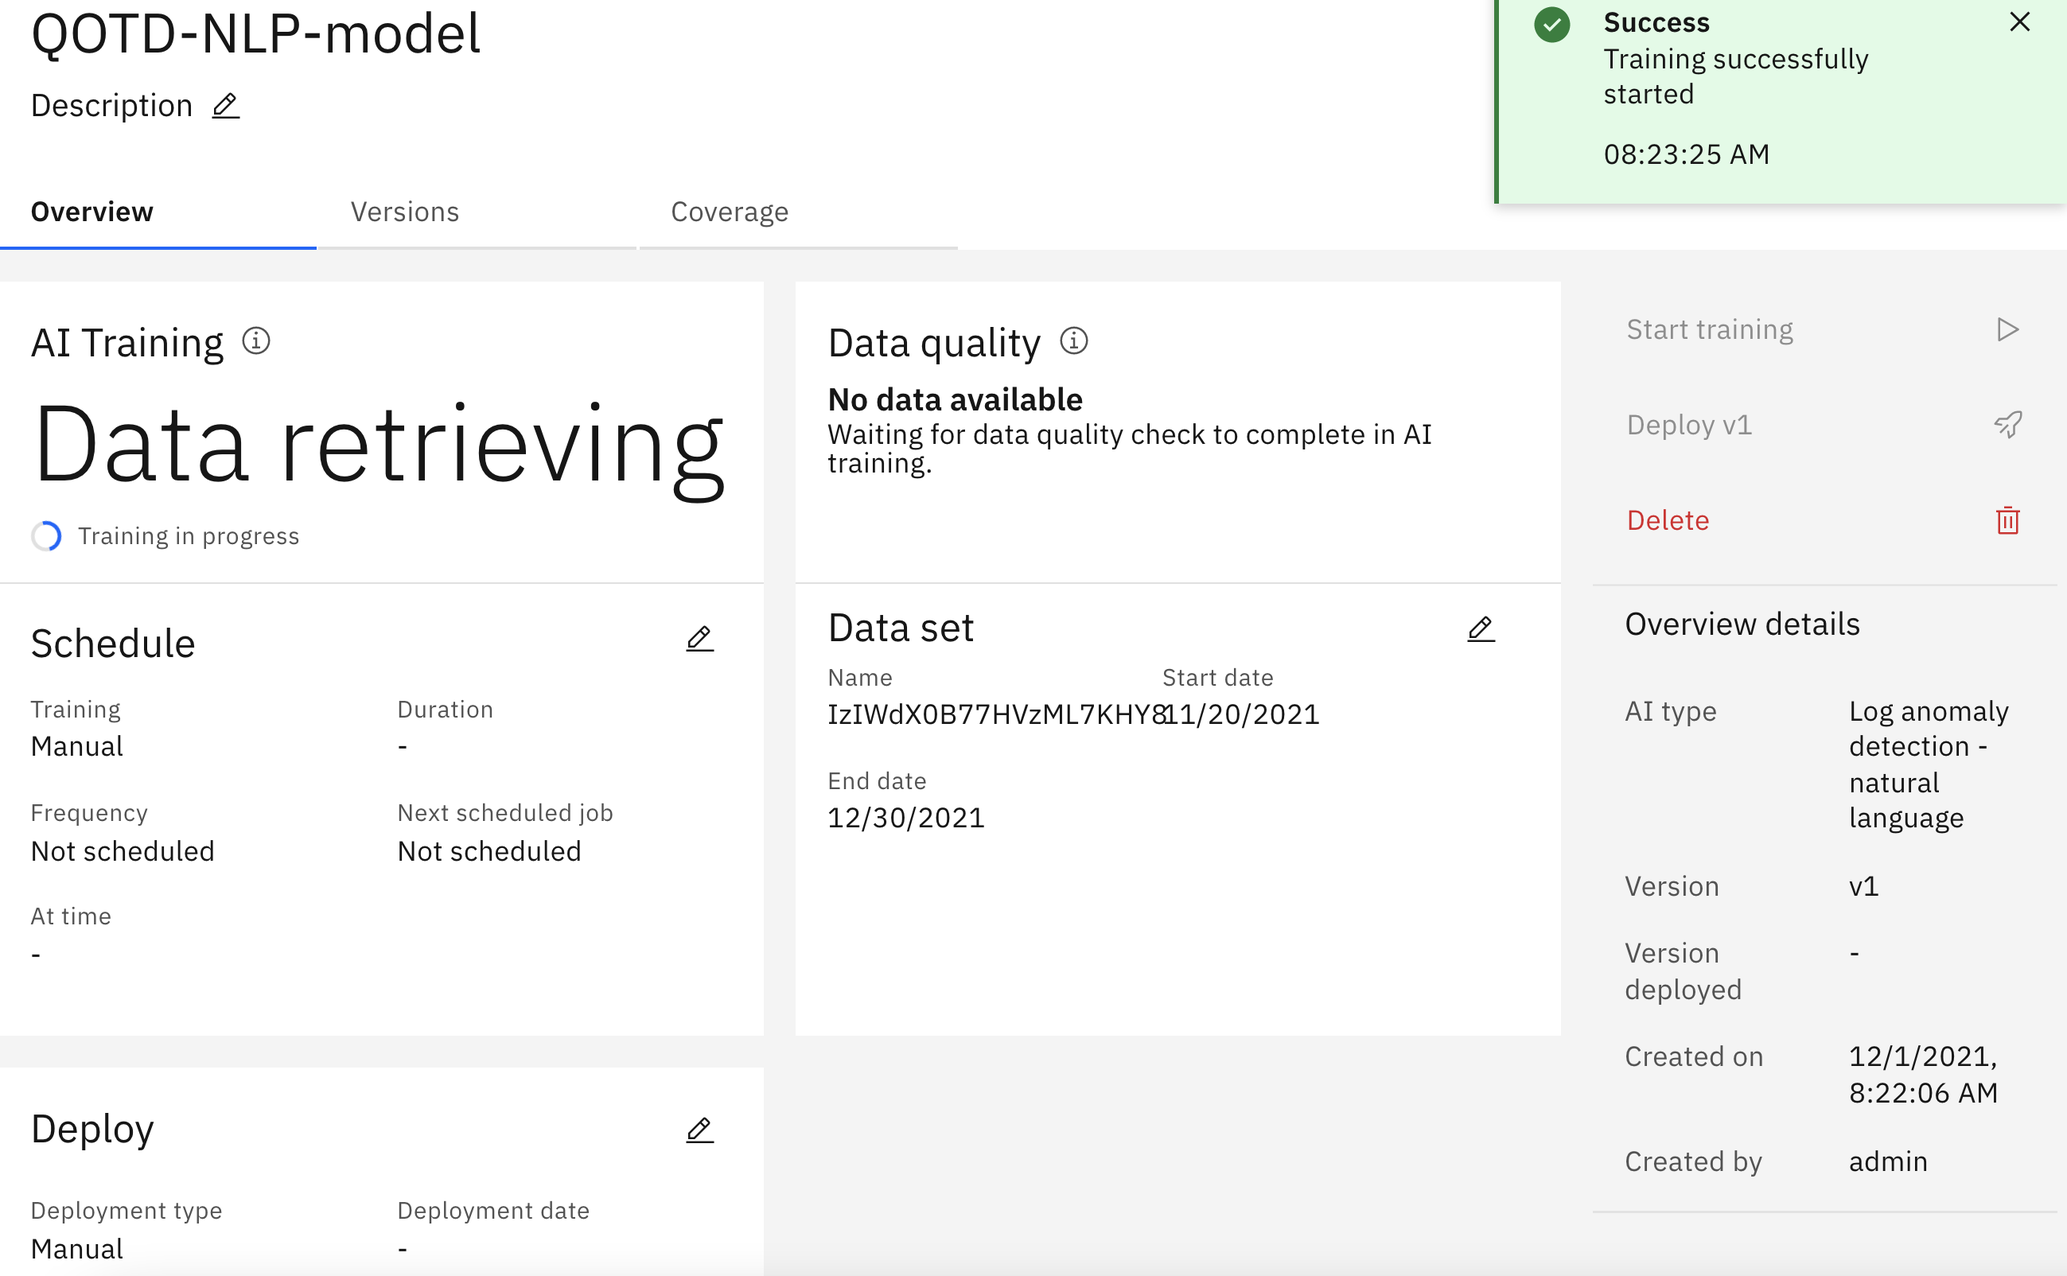
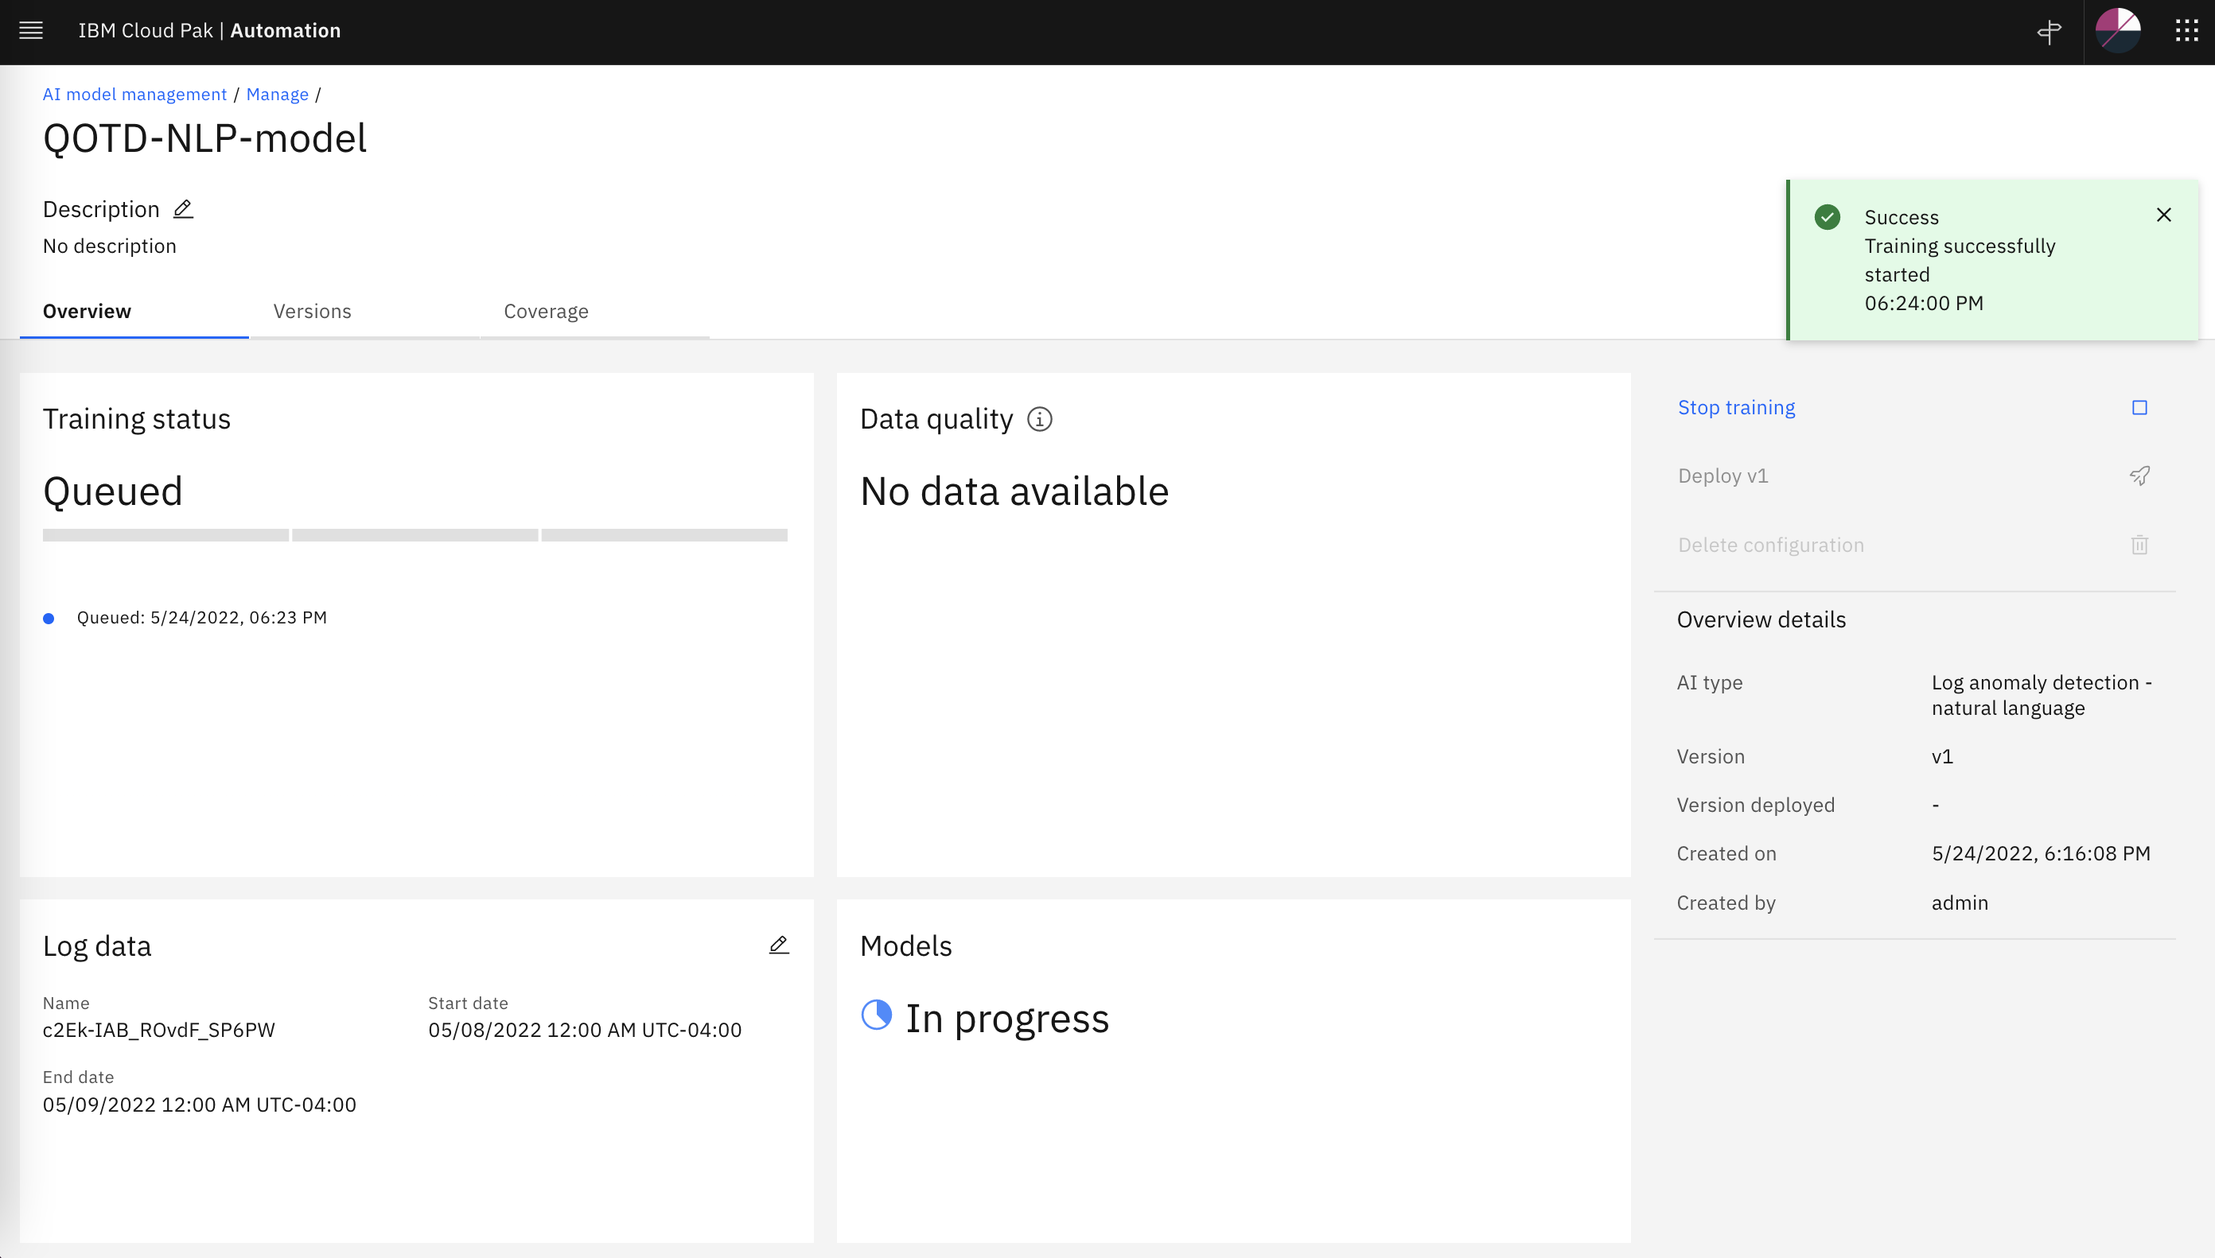
another commit

diff --git a/docs/inference.md b/docs/inference.md
@@ -7,20 +7,20 @@ Lets recap what we have done so far:
 
 * We have defined an integration to a Log Aggregator (EFK) that received historical application logs for a "normal" day of operations of a sample application called *qotd*.
 
-* We have defined an integration to Instana which is observing the environment where the sample *qotd* application is running and we have pulled every resource topology information related to this application into CP4WAIOps.
+* We have defined an integration to Instana which is observing the environment where the sample **qotd** application is running and we have pulled every resource topology information related to this application into CP4WAIOps.
 
 * We have enabled one CP4WAIOps policy to create Stories.
 
-* We have created a log anomaly model by training on one day of "normal" log data from the *qotd* application. We have deployed this model to be ready for inference. 
+* We have created a log anomaly model by training on one day of "normal" log data from the **qotd** application. We have deployed this model so we can actually test it with real time log data.  
 
 
 
 ## Start Log Anomaly Inference on Real-Time Logs
 
 Now that our log anomaly trained model is successfully deployed, its ready to start doing log anomaly inference. That is, "scan" logs coming in real time from the sample application *qotd* and create alerts when the real time logs deviate from what is considered "normal" in the trained model. 
-The final important point here is that, during the Lab execution, we are injecting real time anomalies into the sample application qotd, for example we are shutting down API services, icreasing service responce latency, etc. This concept is similar to what the IT Ops team at Netflix call [Chaos Monkey](https://netflix.github.io/chaosmonkey/). These anomalies will be detected by the CP4WAIOps and you will see the new alerts and stories created.
+The final important point here is that, during the Lab execution, we are injecting real time anomalies into the sample application qotd, for example we are shutting down API services, increasing service responce latency, etc. This concept is similar to what the IT Ops team at Netflix call [Chaos Monkey](https://netflix.github.io/chaosmonkey/). These anomalies will be detected by the CP4WAIOps and you will see the new alerts and stories created.
 
-We are going to modify our integration with the log aggregator to start consuming real-time logs instead historical logs as we did previosuly.
+We are going to modify our integration with the log aggregator to start consuming real-time logs instead historical logs as we did previously.
 
 * From the Home page, under `Overview` clik on `Data and tool connections` on the left side of the page. 
 
@@ -56,27 +56,42 @@ After deploying the log anomaly model and enabling real-time log consumption, we
 
 * From the Home page, under `Overview` clik on `Stories and alerts` on the left side of the page. 
 
-* On the Stories tab, make sure you see one or more stories created. Confirm that the story has been recently created. If you don't see any stories, just wait a few minutes. As we mentioned before during the definition of the terms, from an IT Operations point of view we have `Events` that trigger `Alerts` that trigger the creation of stories`Stories`. 
+* On the Stories tab, make sure you see one or more stories created, as shown below. Confirm that the story has been recently created. If you don't see any stories, just wait a few minutes. As we mentioned before during the definition of the terms, from an IT Operations point of view we have `Events` that trigger `Alerts` that trigger the creation of stories`Stories`. 
 
-* **Alerts tab:** Click on the Alerts tab. Here you will see one or more alerts. These are the Log Anomaly alerts that were created by the Log Anomaly model we just deployed. They were created because the real-time logs shown patterns that are not considered "normal" by the trained model. 
+![Inference](./images/aiops-log-anomaly-inference-1.png)
 
-      * Click on the alert summary to explore the alert details on the right of the page. 
+* **Alerts tab:** Click on the Alerts tab. Here you will see one or more alerts, as shown below:
+
+
+![Inference](./images/aiops-log-anomaly-inference-2.png)
+
+
+These are the Log Anomaly alerts that were created by the Log Anomaly model we just deployed. They were created because the real-time logs shown patterns that are not considered "normal" by the trained model. 
+
+  * Click on the first alert under the Summary column to explore the alert details on the right side of the page. 
+
       * On the Alert details under Properties review the values of the different properties. 
+
       * Look at the value of the property `eventCount`, this is the number of events that were aggregated into a single Alert. 
 
 
-* **Stories tab:**  Click back on the Stories tab, these are the stories that were created based on the alerts that you just saw before. In a real production environment, a story can group and correlate different but related alerts into a single page. For example, lets imagine that the storage of a key application database goes down. In this scenario, we could have alerts from the database monitoring platformm, log anomaly alerts from the APIs that use the database and web page response alerts that shows database data. All these three alerts will be combined into a single story in order to help the IT Operations personnel find the root cause the the incident. 
+* **Stories tab:**  Click back on the Stories tab, these are the stories that were created based on the alerts that you just saw before. In a real production environment, a story can group and correlate different but related alerts into a single story page. For example, lets imagine that the storage of a key application database goes down. In this scenario, we could have alerts from the database monitoring platformm, log anomaly alerts from the APIs that use the database and web page response alerts that shows database data. All these three alerts will be combined into a single story in order to help the IT Operations personnel find the root cause the the incident. 
 
 
-      * Click on the story Description to look at the story details. 
+      * Click on the story Description to look at the story details. You will see the story page as shown below:
+
+![Inference](./images/aiops-log-anomaly-inference-3.png)
+
+* 
       * On the left side, we see the Top alerts that triggered this story. These alerts are ranked by probable cause showing the top one as the most probable root cause of the overall incident.
+
       * In the middle of the page, we see topology information that was provided by Instana with the problematic resource highlighted. 
       * The top right side of the page shows the StoryID, the story owner (Unassigned) and the priority. 
-      * The change story settings button on the top right allow us to change the priority, the status and assignee.  
+      * The `Change story settings` button on the top right allow us to change the priority, the status and assignee.  
       * The Alerts tab shows only the alerts related to these particular story.
-      * The Topology tab shows the overall topology where this incident happen (NOTE that currently this tab is not showing any topology. The overall topology can be seen from Home -> Resource management -> qotd)
+      * The Topology tab shows the overall topology context where this incident happen (NOTE that currently this tab is not showing any data. The overall topology context can be seen from Home -> Resource management -> qotd)
 
-**THIS IS THE END OF THE LAB**
+**CONGRATULATIONS, THIS IS THE END OF THE LAB**
 
 ---
 

diff --git a/docs/integration.md b/docs/integration.md
@@ -2,7 +2,7 @@
 
 ## Connecting to the CP4WAIOps console
 
-Lets start by connecting to the CP4WAIOps console. Get the URL and login credentials from the *Lab Parameters Table*. You will see the console home page as shown below. 
+Lets start by connecting to the CP4WAIOps console. Use the URL and login credentials given by your Lab coordinator. You will see the console home page as shown below. 
 
 ![Home Page](./images/home-page.png "Home Page")
 
@@ -10,7 +10,7 @@ Lets start by connecting to the CP4WAIOps console. Get the URL and login credent
 
 ## Configure the EFK Integration
 
-EFK is a variant of ELK (Elasticsearch, Logstash, and Kibana). EFK is a suite of tools combining Elasticsearch, Fluentd, and Kibana that functions as a log aggregation tool. To simplify the installation and configuration effort for installing the different components of the EFK stack on OpenShift, we leverage the `OpenShift Logging` library from OpenShift. OpenShift customers that prefer not to spend part of their budget on a commercial log aggregator such as Humio, Splunk, or LogDNA, more than likely use the `OpenShift Logging` library.
+EFK is a variant of ELK (Elasticsearch, Logstash, and Kibana). EFK is a suite of tools combining Elasticsearch, Fluentd, and Kibana that functions as a log aggregation tool. Note that Kibana is a data visualization and exploration tool used for log and time-series analytics, application monitoring, and operational intelligence use cases. Now, to simplify the installation and configuration effort for installing the different components of the EFK stack on OpenShift, we leverage the `OpenShift Logging` library from OpenShift. OpenShift customers that prefer not to spend part of their budget on a commercial log aggregator such as Humio, Splunk, or LogDNA, more than likely use the `OpenShift Logging` library. 
 
 To have AI Manager collect logs from the EFK installation that leverages the `OpenShift Logging` library, you need to define an EFK integration. The lab will provide the values that you should use for defining the EFK integration.
 
@@ -37,7 +37,7 @@ Complete the ELK, `Add connection` form, with the following values:
 
 * `Filters`: Don't change it.
 
-* `Time zone`: Don't change it.
+* `Time zone`: Select `GMT-4`.
 
 * `Kibana port`: Type `443`.
 
@@ -85,7 +85,7 @@ The following screenshots show the form update flow as guidance **(note that con
 ![elk integration 6](./images/elk-integration-6.png "ELK integration 6")
 
 
-Finally, click on the `Done` button.  After some time, you will see the message `Connection completed. IBM Cloud Pak for Watson AIOps has successfully processed your request` and the ELK integration page will show the Data Flow Status as `Running` as shown below:
+Finally, click on the `Done` button.  After some time, you will see the message `Connection completed. IBM Cloud Pak for Watson AIOps has successfully processed your request`.  Click on the `ELK` Connection type and then the ELK integration page will show the `EFK for QOTD` integration you just defined showing the Data Flow Status as `Running` as shown below:
 
 ![elk integration 7](./images/elk-integration-7.png "ELK integration 7")
 
@@ -97,9 +97,9 @@ After around 15 minutes, it will stop pulling the data and the Data Flow Status 
 
 ## Configure the Instana Integration
 
-The CP4WAIOps will consume topology information from Instana therefore we will configure the integration between the CP4WAIOps and Instana.
+The CP4WAIOps will consume topology information from Instana therefore we will configure this integration.
 
-Lets verify first that there is no topology data in the system. From the Home page, clik on `Resource management` under `Overview` on the left side of the page. On the Resource management page, make sure there are no Applications, Resource groups nor Resources defined, as shown below
+Lets verify first that there is no topology data in the system. From the navigator menu, go to the Home page again, clik on `Resource management` under `Overview` on the left side of the page. On the Resource management page, make sure there are no Applications, Resource groups nor Resources defined, as shown below
  
 ![instana integration 0](./images/instana-0.png "Instana integration 0")
 
@@ -111,7 +111,7 @@ Enter the following `Add connection` information:
 
 * `Name`: The display name of your connection, for example `Instana connection`.
 
-* `Description`: An optional description for the connection.
+* `Description`: An optional description for the connection. Leave it blank.
 
 * `Endpoint`: Get the URL for the Instana Endpoint from the *Lab Parameters Table*.
 
@@ -126,7 +126,7 @@ Enter the following `Collect topology data`:
 
 * `Enable data flow`: Set this toggle button to on (green).
 
-* `Time window` (seconds): Leave as it is. This is the windowSize within the Instana API.
+* `Time window` (seconds): Leave as it is. This is the windowSize parameter within the Instana API.
 
 * `Connection Intervals` (seconds): Leave as it is. This is how frequently to run the job to collect topology.
 
@@ -155,7 +155,7 @@ From the Home page, clik on Resource management under Overview on the left side 
 
 ![Resource management](./images/resource-mgmt.png "Resource management")
 
-Click on the application `qotd` and you will see the topology resources related to this application as shown in the picture below. Feel free to zoom-in to see details.
+Click on the application `qotd` and you will see the topology resources related to this application as shown in the picture below. Feel free to zoom-in to see details. Note that it will take 10-20 minutes to get a complete representation of all the topology entities and relationships.
 
 ![qotd Topology](./images/resource-topo.png "qotd Topology]")
 
@@ -166,7 +166,7 @@ Click on the application `qotd` and you will see the topology resources related 
 
 Now, lets take a look at the automations page in CP4WAIOps. By creating automations, we can proactively set up actions and policies to detect and remediate events. 
 
-From the Home page, clik on `Automations` under `Overview` on the left side of the page. In this page, we can manage *Policies*, *Runbooks* and *Actions* (we will see Stories later in the Inference section of the Lab)
+From the Home page, clik on `Automations` under `Overview` on the left side of the page. In this page, we can manage *Policies*, *Runbooks* and *Actions*.
 
 Under the *Policies* tab, we can see a list of system predefined policies that support a number of features in CP4WAIOps. We will review and enable a predefined policy that create stories:
 
@@ -174,7 +174,9 @@ Under the *Policies* tab, we can see a list of system predefined policies that s
 
 * Change the state of the `Default story creation policy for all alerts` policy from Disabled to Enabled by clicking on the State slider. We need to enable this policy so we can see stories being created later in the Inference section of the Lab.
 
-* This Policy will basically create a new Story for every new Alert regardless of the severity of the Alert. Click on the policy name to see the policy details on the right of the page. 
+* This Policy will basically create a new Story for every new Alert regardless of the severity of the Alert. 
+
+Click on the policy name to see the policy details on the right side of the page. 
 
 * Click on the `Journal` tab to see the updates done so far to this policy.
 

diff --git a/docs/log-anomaly.md b/docs/log-anomaly.md
@@ -36,7 +36,7 @@ Log anomaly detection takes large amounts of log data and trains on it to learn 
 
 * On the `AI algorithms` tab, on the `Log anomaly detection-natural language` tile, click `Configure`.
 
-   ![AIOps log anomaly training 1](./images/aiops-log-anomaly-training-1.png)
+   ![AIOps log anomaly training 1](./images/aiops-log-anomaly-training-1a.png)
 
 * **Getting started:** Under Data and tool connections, check that at least one connection is listed down the page.
 
@@ -104,27 +104,33 @@ Now that the Log Anomaly configuration is set, we can start the training.
 
 * After a few moments, the following response is displayed: `Training successfully started`.
 
-* The AI Training tile displays the message: `Data retrieving. Training is now in progress.`
+* The AI Training tile displays various training status messages: such as `Queued`.
 
      ![AIOps log anomaly training 11](./images/aiops-log-anomaly-training-11.png)
 
-* 
 
-* **Log Anomaly Training will typically take around 30 minutes for this amount of data. This a good time to get lunch and come back in 30 minutes :-) **
+* You will see in the Models tile, how the wheel chart turns from red to green as diferent resources are added to the model. Its OK if the `anomaly` resource name fails to get a model. There are not enough log lines that have information about this resource. 
 
-* 
+     ![AIOps log anomaly training 11](./images/aiops-log-anomaly-training-11a.png)
 
-* Once the training is complete, the AI Training tile displays the message: `Training complete`. At this point, AI models are created, with a specified data quality.
+---
+
+* **Log Anomaly Training will typically take around 30 minutes for this amount of data. This a good time to step away and come back in 30 minutes. **
+
+---
+
+* Once the training is complete, the Training status tile displays the message: `3 of 3 complete`. At this point, the log anomaly models are created.
 
    ![AIOps log anomaly training 12](./images/aiops-log-anomaly-training-12.png)
 
-* To deploy the model, click the algorithm configuration for whose model that you want to deploy. The overview page is displayed.
 
-   In the right sidebar, click `Deploy vX`, where X is the version number of the model that is generated, but not deployed.
+Now the last step in the Log Anomaly Training section is to deploy the model. 
+
+* Click on the Versions tab and confirm there is a model created with Version v1. Click on the 3 dots on the right and select `Deploy` as shown below.
 
    ![AIOps log anomaly training 13](./images/aiops-log-anomaly-training-13.png)
 
-* Once the model is deployed, you can check the status of the model under the `Versions` tab.
+* Once the model is deployed, you willsee the Status changed to `Deployed` as shown below.
 
    ![AIOps log anomaly training 14](./images/aiops-log-anomaly-training-14.png)
 
